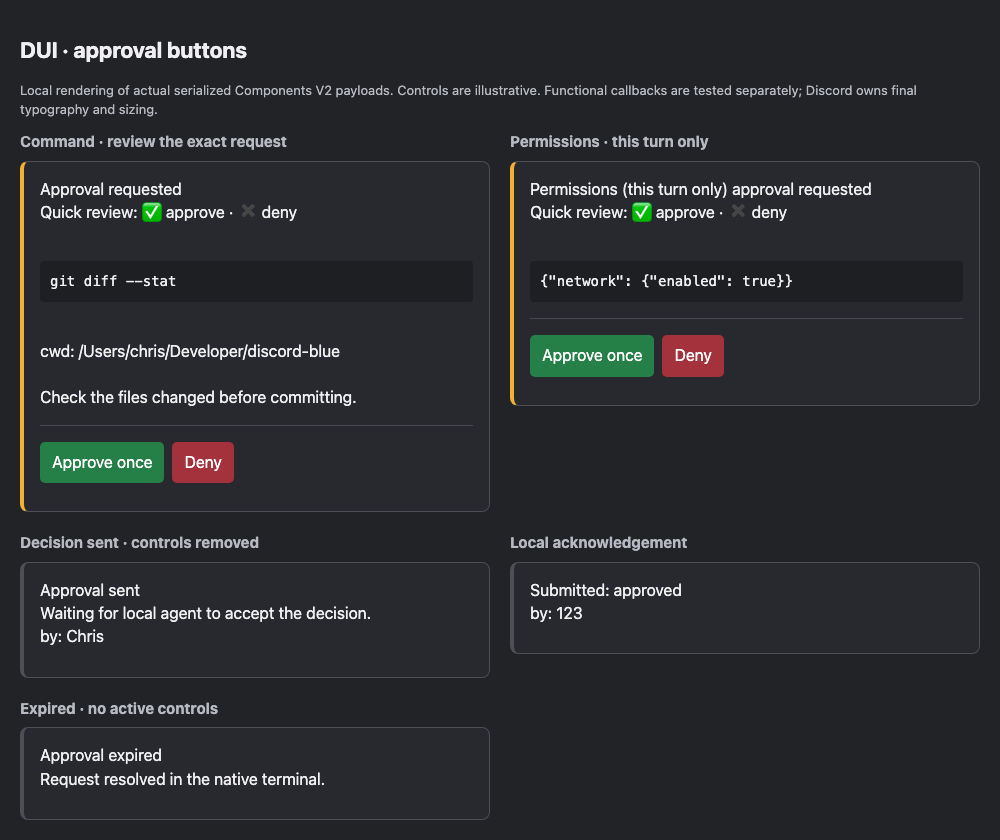
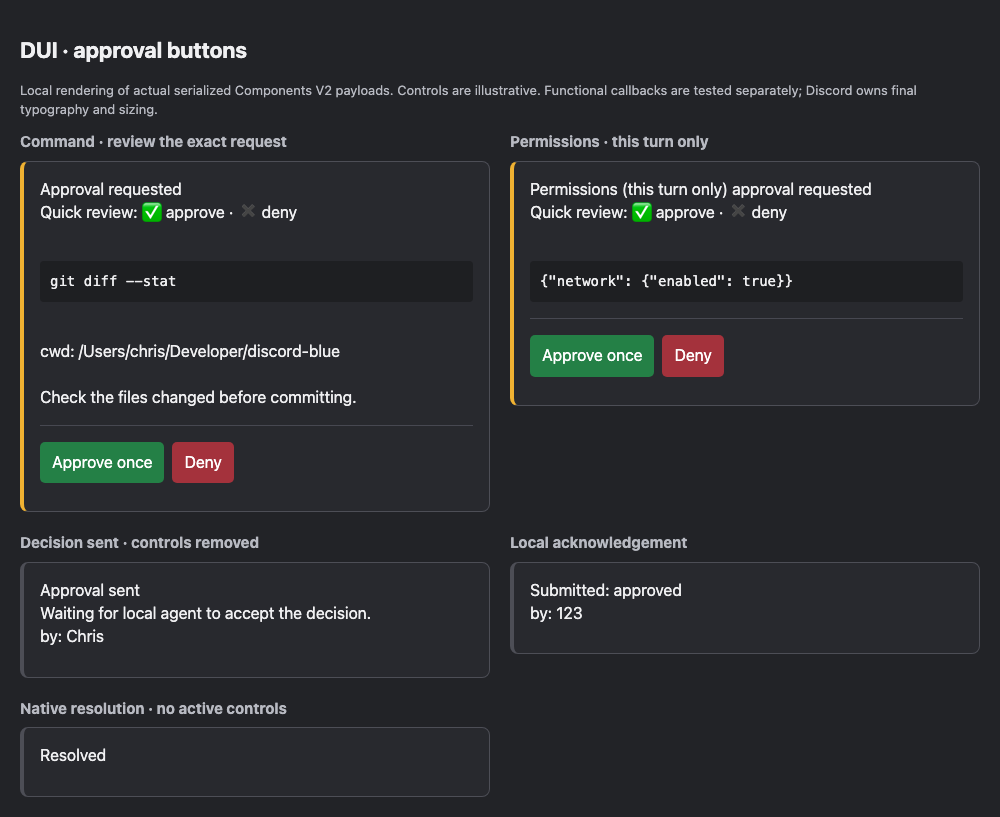
Acknowledge slow approval clicks and release retired views

diff --git a/docs/assets/dui/approvals-preview.html b/docs/assets/dui/approvals-preview.html
@@ -1,5 +1,5 @@
 <!doctype html><html lang="en"><meta charset="utf-8"><meta name="viewport" content="width=device-width,initial-scale=1"><title>DUI approval cards</title><style>*{box-sizing:border-box}body{margin:0;background:#222327;color:#f0f0f2;font:16px/1.45 system-ui}main{max-width:1000px;margin:auto;padding:20px}h1{font-size:22px}header p{color:#b8bac2;font-size:13px}.panels{display:grid;grid-template-columns:repeat(2,minmax(0,1fr));gap:20px}h2{font-size:15px;color:#b8bac2;margin:0 0 8px}article{background:#28292e;border:1px solid #4d4e56;border-left:4px solid #f0b232;border-radius:8px;padding:16px}p{margin:0 0 12px;white-space:pre-wrap;overflow-wrap:anywhere}hr{border:0;border-top:1px solid #474851;margin:16px 0}.row{display:flex;gap:8px;margin-bottom:12px}select{width:100%;background:#1e1f22;border:1px solid #5d5e66;border-radius:5px;padding:10px;color:#eee;font:inherit}button{padding:9px 12px;border:0;border-radius:5px;background:#484a54;color:#fff;font:inherit}button.success{background:#248046}button.primary{background:#5865f2}button.danger{background:#a4323c}pre{background:#1e1f22;border-radius:4px;padding:10px;white-space:pre-wrap;overflow-wrap:anywhere;font:14px/1.5 ui-monospace,monospace}strong{font-weight:650}@media(max-width:600px){main{padding:12px}.panels{grid-template-columns:1fr}}</style><main><header><h1>DUI · approval buttons</h1><p>Local rendering of actual serialized Components V2 payloads. Controls are illustrative. Functional callbacks are tested separately; Discord owns final typography and sizing.</p></header><div class="panels"></div></main><script>
-const panels=[{"name": "Command \u00b7 review the exact request", "components": [{"type": 17, "accent_color": 15774258, "spoiler": false, "components": [{"type": 10, "content": "**Approval requested**\nQuick review: `\u2705` approve \u00b7 `\u2716\ufe0f` deny\n\n```sh\ngit diff --stat\n```\ncwd: `/Users/chris/Developer/discord-blue`\n\nCheck the files changed before committing."}, {"type": 14, "divider": true, "spacing": 1}, {"type": 1, "components": [{"type": 2, "style": 3, "disabled": false, "label": "Approve once", "custom_id": "d3172785467f6a7cd81b874a9285c11d"}, {"type": 2, "style": 4, "disabled": false, "label": "Deny", "custom_id": "1f61afe613c9718211ee4b688ea496e7"}]}]}]}, {"name": "Permissions \u00b7 this turn only", "components": [{"type": 17, "accent_color": 15774258, "spoiler": false, "components": [{"type": 10, "content": "**Permissions (this turn only) approval requested**\nQuick review: `\u2705` approve \u00b7 `\u2716\ufe0f` deny\n\n```json\n{\"network\": {\"enabled\": true}}\n```"}, {"type": 14, "divider": true, "spacing": 1}, {"type": 1, "components": [{"type": 2, "style": 3, "disabled": false, "label": "Approve once", "custom_id": "51d3eefa3f10a76637a111e9358745a9"}, {"type": 2, "style": 4, "disabled": false, "label": "Deny", "custom_id": "1e92bd943ee583e1323bc3ab30475e73"}]}]}]}, {"name": "Decision sent \u00b7 controls removed", "components": [{"type": 17, "accent_color": 5066326, "spoiler": false, "components": [{"type": 10, "content": "**Approval sent**\nWaiting for local agent to accept the decision.\nby: `Chris`"}]}]}, {"name": "Local acknowledgement", "components": [{"type": 17, "accent_color": 5066326, "spoiler": false, "components": [{"type": 10, "content": "**Submitted: approved**\nby: `123`"}]}]}, {"name": "Expired \u00b7 no active controls", "components": [{"type": 17, "accent_color": 5066326, "spoiler": false, "components": [{"type": 10, "content": "**Approval expired**\nRequest resolved in the native terminal."}]}]}];
+const panels=[{"name": "Command \u00b7 review the exact request", "components": [{"type": 17, "accent_color": 15774258, "spoiler": false, "components": [{"type": 10, "content": "**Approval requested**\nQuick review: `\u2705` approve \u00b7 `\u2716\ufe0f` deny\n\n```sh\ngit diff --stat\n```\ncwd: `/Users/chris/Developer/discord-blue`\n\nCheck the files changed before committing."}, {"type": 14, "divider": true, "spacing": 1}, {"type": 1, "components": [{"type": 2, "style": 3, "disabled": false, "label": "Approve once", "custom_id": "7190b33e7a2f171e6f364caea20e0d2c"}, {"type": 2, "style": 4, "disabled": false, "label": "Deny", "custom_id": "3d76f0385b8e2073e962050143559a66"}]}]}]}, {"name": "Permissions \u00b7 this turn only", "components": [{"type": 17, "accent_color": 15774258, "spoiler": false, "components": [{"type": 10, "content": "**Permissions (this turn only) approval requested**\nQuick review: `\u2705` approve \u00b7 `\u2716\ufe0f` deny\n\n```json\n{\"network\": {\"enabled\": true}}\n```"}, {"type": 14, "divider": true, "spacing": 1}, {"type": 1, "components": [{"type": 2, "style": 3, "disabled": false, "label": "Approve once", "custom_id": "ec69a169ebcf4fbfa6102b629cc2145c"}, {"type": 2, "style": 4, "disabled": false, "label": "Deny", "custom_id": "c45b1fbd37bb18aaab60bd206d555fb0"}]}]}]}, {"name": "Decision sent \u00b7 controls removed", "components": [{"type": 17, "accent_color": 5066326, "spoiler": false, "components": [{"type": 10, "content": "**Approval sent**\nWaiting for local agent to accept the decision.\nby: `Chris`"}]}]}, {"name": "Local acknowledgement", "components": [{"type": 17, "accent_color": 5066326, "spoiler": false, "components": [{"type": 10, "content": "**Submitted: approved**\nby: `123`"}]}]}, {"name": "Native resolution \u00b7 no active controls", "components": [{"type": 17, "accent_color": 5066326, "spoiler": false, "components": [{"type": 10, "content": "**Resolved**"}]}]}];
 function component(c){let e;if(c.type===17){e=document.createElement('article');e.style.borderLeftColor='#'+c.accent_color.toString(16).padStart(6,'0');c.components.forEach(x=>e.append(component(x)))}else if(c.type===10){e=document.createElement('p');c.content.split(/(```[a-z]*\n[\s\S]*?```)/g).forEach(t=>{const n=document.createElement(t.startsWith('```')?'pre':'span');n.textContent=t.startsWith('```')?t.replace(/^```[a-z]*\n|```$/g,''):t.replace(/^### /gm,'').replace(/\*\*/g,'').replace(/`/g,'');e.append(n)})}else if(c.type===14){e=document.createElement('hr')}else if(c.type===1){e=document.createElement('div');e.className='row';c.components.forEach(x=>e.append(component(x)))}else if(c.type===3){e=document.createElement('select');e.setAttribute('aria-label',c.placeholder);const placeholder=document.createElement('option');placeholder.textContent=c.placeholder;placeholder.disabled=true;placeholder.selected=!c.options.some(x=>x.default);e.append(placeholder);c.options.forEach(x=>{const o=document.createElement('option');o.textContent=x.label;o.value=x.value;o.selected=x.default;o.title=x.description||'';e.append(o)})}else if(c.type===2){e=document.createElement('button');e.textContent=(c.emoji?.name||'')+' '+c.label;e.className=c.style===1?'primary':c.style===3?'success':c.style===4?'danger':''}else{e=document.createElement('span')}return e}
 for(const p of panels){const section=document.createElement('section');const h=document.createElement('h2');h.textContent=p.name;section.append(h);p.components.forEach(c=>section.append(component(c)));document.querySelector('.panels').append(section)}
 </script></html>

diff --git a/tests/test_approval_cards.py b/tests/test_approval_cards.py
@@ -1,5 +1,6 @@
 from __future__ import annotations
 
+import asyncio
 import dataclasses
 import unittest
 from typing import Any, cast
@@ -8,7 +9,7 @@ from unittest.mock import patch
 import discord
 
 from discord_blue.doodads.agent_session.bridge import AgentSessionBridge, ApprovalButton, ApprovalView
-from discord_blue.doodads.agent_session.protocol import RemoteApprovalRequest
+from discord_blue.doodads.agent_session.protocol import RemoteApprovalDecision, RemoteApprovalRequest
 from tests.fakes_agent_prompts import prompt_fixture
 from tests.fakes_agent_session import FakeInteraction, FakeReplyMessage, FakeThread, visible_view_text
 
@@ -50,14 +51,15 @@ class ApprovalCardTests(unittest.IsolatedAsyncioTestCase):
                 [sent] = self.fixture.socket.sent_json
                 self.assertEqual(
                     sent,
-                    {
-                        "type": "approval_decision",
-                        "approval_id": self.request.approval_id,
-                        "session_id": self.request.session_id,
-                        "session_epoch": self.request.session_epoch,
-                        "decision": decision,
-                    },
+                    RemoteApprovalDecision(
+                        approval_id=self.request.approval_id,
+                        session_id=self.request.session_id,
+                        session_epoch=self.request.session_epoch,
+                        decision=decision,
+                    ).to_message(),
                 )
+                self.assertTrue(interaction.response.deferred)
+                self.assertTrue(view.is_finished())
                 self.assertEqual(interaction.response.edits[0][0], "")
                 replacement = cast(discord.ui.LayoutView, interaction.response.edit_kwargs[0]["view"])
                 self.assertFalse(any(isinstance(item, discord.ui.Button) for item in replacement.walk_children()))
@@ -111,3 +113,65 @@ class ApprovalCardTests(unittest.IsolatedAsyncioTestCase):
                 )
                 await self.button(view, "approved").callback(cast(Any, FakeInteraction(self.fixture.thread, message=message)))
                 self.assertEqual(self.fixture.socket.sent_json, [])
+
+    async def test_slow_delivery_is_acknowledged_before_native_resolution_waits(self) -> None:
+        view, message = await self.offer()
+        interaction = FakeInteraction(self.fixture.thread, message=message)
+        sending, release = asyncio.Event(), asyncio.Event()
+        original = self.fixture.socket.send_json
+
+        async def send(payload: dict[str, object]) -> None:
+            sending.set()
+            await release.wait()
+            await original(payload)
+
+        with patch.object(self.fixture.socket, "send_json", new=send):
+            click = asyncio.create_task(self.button(view, "approved").callback(cast(Any, interaction)))
+            try:
+                await asyncio.wait_for(sending.wait(), 1)
+                self.assertTrue(interaction.response.deferred)
+                await self.fixture.bridge.handle_prompt_resolved(
+                    "approval_resolved",
+                    {
+                        "session_id": self.request.session_id,
+                        "session_epoch": self.request.session_epoch,
+                        "approval_id": self.request.approval_id,
+                    },
+                )
+                self.assertTrue(view.is_finished())
+            finally:
+                release.set()
+                await click
+        self.assertTrue(interaction.response.messages)
+        self.assertEqual(interaction.response.edits, [])
+        self.assertEqual(len(self.fixture.socket.sent_json), 1)
+
+    async def test_replaced_requests_and_removed_sessions_release_their_button_views(self) -> None:
+        old, _ = await self.offer()
+        current, _ = await self.offer()
+        self.assertTrue(old.is_finished())
+        self.assertFalse(current.is_finished())
+        self.fixture.bridge.sessions.remove(self.fixture.session.session_id)
+        self.assertTrue(current.is_finished())
+
+    async def test_native_resolution_during_defer_prevents_dispatch(self) -> None:
+        view, message = await self.offer()
+        interaction = FakeInteraction(self.fixture.thread, message=message)
+        original = interaction.response.defer
+
+        async def defer() -> None:
+            await original()
+            await self.fixture.bridge.handle_prompt_resolved(
+                "approval_resolved",
+                {
+                    "session_id": self.request.session_id,
+                    "session_epoch": self.request.session_epoch,
+                    "approval_id": self.request.approval_id,
+                },
+            )
+
+        with patch.object(interaction.response, "defer", new=defer):
+            await self.button(view, "approved").callback(cast(Any, interaction))
+        self.assertEqual(self.fixture.socket.sent_json, [])
+        self.assertTrue(interaction.response.messages)
+        self.assertTrue(view.is_finished())

diff --git a/discord_blue/doodads/agent_session/bridge.py b/discord_blue/doodads/agent_session/bridge.py
@@ -1944,6 +1944,8 @@ class AgentSessionBridge:
     ) -> str | None:
         if error := self.dispatch_error(session, "approval_decision"):
             return error
+        if pending.retired or session.pending_approvals.get(approval_id) is not pending:
+            return "This approval is no longer active."
         if pending.decision is not None:
             return "This approval has already been answered."
         pending.decision, pending.decided_by = decision, user_id
@@ -2348,14 +2350,17 @@ class AgentSessionBridge:
         if not isinstance(channel, discord.Thread):
             return
 
-        message = await send_agent_session_message(
-            channel, view=ApprovalView(self, approval, content[:DISCORD_MESSAGE_LIMIT]), silent=False
-        )
+        view = ApprovalView(self, approval, content[:DISCORD_MESSAGE_LIMIT])
+        message = await send_agent_session_message(channel, view=view, silent=False)
+        previous = session.pending_approvals.get(approval.approval_id)
+        if previous is not None and previous.view is not None:
+            previous.view.stop()
         # Answerable from the moment it is posted: Discord shows the reactions one at a time, and a tap on the first
         # one while the bot still adds the next must count.
         session.pending_approvals[approval.approval_id] = PendingRemoteApproval(
             thread_id=session.thread_id,
             message_id=message.id,
+            view=view,
         )
         await self.add_message_reactions(
             message,
@@ -2575,18 +2580,21 @@ class AgentSessionBridge:
             await interaction.response.send_message("This approval has already been answered.", ephemeral=True)
             return
 
+        await interaction.response.defer()
         if error := await self.dispatch_approval(session, pending, approval_id, decision, interaction.user.id):
-            await interaction.response.send_message(error, ephemeral=True)
+            await interaction.followup.send(error, ephemeral=True)
             return
+        if pending.view is not None:
+            pending.view.stop()
         async with pending.ui_lock:
             if pending.retired or self.sessions.get(session_id) is not session:
-                await interaction.response.send_message(
+                await interaction.followup.send(
                     "Decision sent; this approval is no longer active. Check the native TUI for its outcome.", ephemeral=True
                 )
                 return
             content = self.format_approval_pending(decision, interaction.user)
             is_v2 = message_uses_components_v2(interaction.message)
-            await interaction.response.edit_message(
+            await interaction.edit_original_response(
                 content=None if is_v2 else content,
                 view=notice_card(content) if is_v2 else None,
                 allowed_mentions=agent_session_allowed_mentions(),
@@ -2784,6 +2792,8 @@ class AgentSessionBridge:
         await self.edit_approval_message(pending, f"**Approval expired**\n{reason}")
 
     async def edit_approval_message(self, pending: PendingRemoteApproval, content: str, *, only_active: bool = False) -> None:
+        if pending.view is not None:
+            pending.view.stop()
         async with pending.ui_lock:
             if only_active and pending.retired:
                 return

diff --git a/discord_blue/doodads/agent_session/sessions.py b/discord_blue/doodads/agent_session/sessions.py
@@ -3,7 +3,10 @@ from __future__ import annotations
 import asyncio
 from dataclasses import dataclass, field
 from datetime import UTC, datetime
-from typing import Literal
+from typing import TYPE_CHECKING, Literal
+
+if TYPE_CHECKING:
+    import discord
 
 from aiohttp import web
 
@@ -37,6 +40,7 @@ class RejectedCommandMessage:
 class PendingRemoteApproval:
     thread_id: int
     message_id: int
+    view: discord.ui.LayoutView | None = None
     decision: str | None = None
     decided_by: int | None = None
     retired: bool = False
@@ -126,7 +130,16 @@ class AgentSessionRegistry:
         self.by_session: dict[str, AgentSession] = {}
         self.by_thread: dict[int, str] = {}
 
+    @staticmethod
+    def stop_approval_views(session: AgentSession) -> None:
+        for approval in session.pending_approvals.values():
+            if approval.view is not None:
+                approval.view.stop()
+
     def register(self, session: AgentSession) -> None:
+        previous = self.by_session.get(session.session_id)
+        if previous is not None and previous is not session:
+            self.stop_approval_views(previous)
         self.by_session[session.session_id] = session
         if session.thread_id is not None:
             self.by_thread[session.thread_id] = session.session_id
@@ -162,6 +175,8 @@ class AgentSessionRegistry:
 
     def remove(self, session_id: str) -> AgentSession | None:
         session = self.by_session.pop(session_id, None)
+        if session is not None:
+            self.stop_approval_views(session)
         # Every thread mapped to this session ID, including one a replaced connection was bound to.
         for thread_id in [thread_id for thread_id, mapped in self.by_thread.items() if mapped == session_id]:
             del self.by_thread[thread_id]

diff --git a/tests/fake_discord.py b/tests/fake_discord.py
@@ -295,6 +295,8 @@ class FakeDiscord:
             return 201, created.payload()
         messages = self.parent_messages if thread is None else thread.messages
         if template == "/channels/{channel}/messages" and method == "POST":
+            if body.get("flags", 0) & (1 << 15) and body.get("content"):
+                return 400, {"message": "Content is unavailable on Components V2 messages", "code": 50035}
             message = FakeMessage(next(self.ids), channel_id or PARENT_ID, str(body.get("content") or ""))
             message.components = body.get("components", [])
             message.flags = body.get("flags", 0)
@@ -325,6 +327,8 @@ class FakeDiscord:
             if method == "DELETE":
                 messages.remove(found)
                 return 204, None
+            if method == "PATCH" and found.flags & (1 << 15) and body.get("content"):
+                return 400, {"message": "Content is unavailable on Components V2 messages", "code": 50035}
             if method == "PATCH" and "content" in body:
                 found.content = str(body["content"] or "")
             if method == "PATCH" and "components" in body:

diff --git a/tests/fakes_agent_session.py b/tests/fakes_agent_session.py
@@ -325,6 +325,10 @@ class FakeInteractionResponse:
         self.edits: list[tuple[str, bool]] = []
         self.edit_kwargs: list[dict[str, object]] = []
         self.modals: list[object] = []
+        self.deferred = False
+
+    async def defer(self) -> None:
+        self.deferred = True
 
     async def send_message(self, content: str, *, ephemeral: bool) -> None:
         self.messages.append((content, ephemeral))
@@ -348,6 +352,10 @@ class FakeInteraction:
         self.user = SimpleNamespace(id=user_id)
         self.message = message
         self.response = FakeInteractionResponse()
+        self.followup = SimpleNamespace(send=self.response.send_message)
+
+    async def edit_original_response(self, content: str | None, **kwargs: object) -> None:
+        await self.response.edit_message(content=content, **kwargs)
 
 
 class FakeBot:

diff --git a/tests/test_agent_session.py b/tests/test_agent_session.py
@@ -2012,7 +2012,7 @@ class BridgeTests(unittest.IsolatedAsyncioTestCase):
         )
 
         self.assertIn("Need approval", visible_view_text(thread.sent_views[0]))
-        self.assertIn("```sh\ngit status\n```", visible_view_text(thread.sent_views[0]))
+        self.assertIn("git status", visible_view_text(thread.sent_views[0]))
         self.assertFalse(thread.sent_kwargs[0]["silent"])
         self.assertEqual(thread.sent_messages[0], "")
         self.assertIsInstance(thread.sent_views[0], bridge_module.ApprovalView)

diff --git a/README.md b/README.md
@@ -215,7 +215,7 @@ in the TUI. The bridge answers a Codex request only
 after an explicit Discord decision. Approval cards offer **Approve once** and
 **Deny** buttons beneath the full request; reaction controls remain supported.
 The card removes its controls when a decision is sent, then shows whether the
-local agent acknowledged it or the request expired. The first answer wins, so the TUI can still
+local agent acknowledged it, the request expired, or the native terminal resolved it. The first answer wins, so the TUI can still
 answer. File-change approvals show the full proposed changes, including paths,
 change kinds and diffs; permissions show the full request and grant only for
 the current turn. Oversized or fenced content, unknown fields, unavailable
